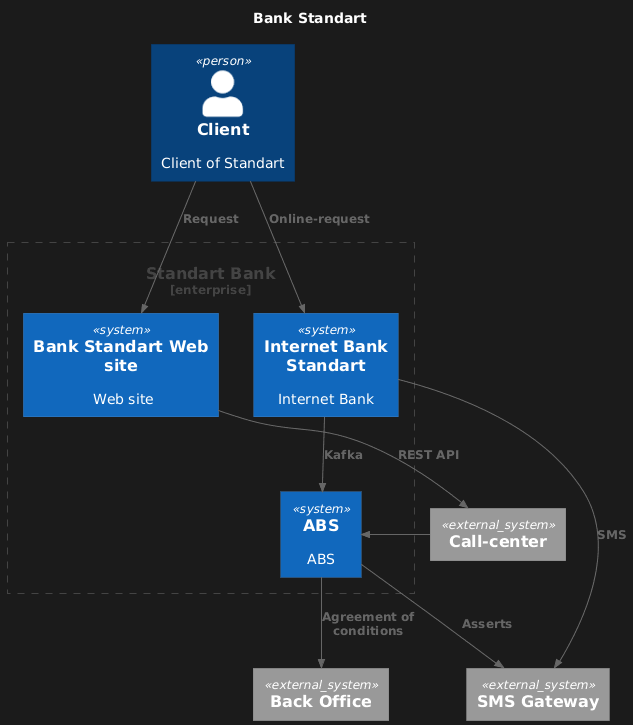
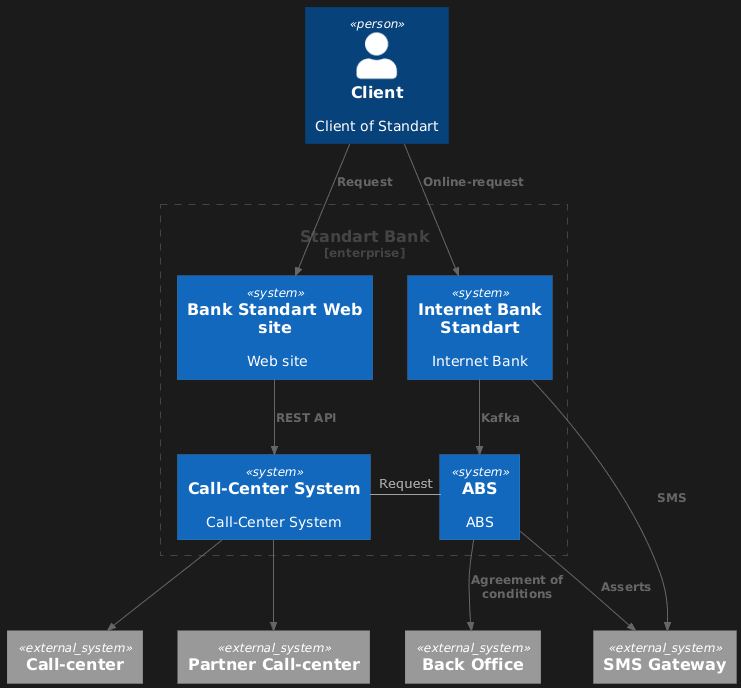
task 4 & task 5

Changed region(s): [[0.03, 0.0, 1.0, 1.0], [0.0, 0.8852, 0.2101, 1.0], [0.9305, 0.7326, 0.9905, 0.7631]]

diff --git a/Task4/README.md b/Task4/README.md
@@ -1,0 +1,72 @@
+## Задание 4. Передача ставок в кол-центр
+
+### <a name="_b7urdng99y53"></a>**Название задачи: Передача ставок в кол-центр** 
+### <a name="_hjk0fkfyohdk"></a>**Автор: kuznechek**
+### <a name="_uanumrh8zrui"></a>**Дата: 30.10.2025**
+
+### <a name="_3bfxc9a45514"></a>**Функциональные требования**
+Опишите здесь верхнеуровневые Use Cases. Их нужно оформить в виде таблицы с пошаговым описанием:
+
+|  №  | Действующие лица или системы         | Use Case                                     | Описание                                                                                                  |
+|-----|--------------------------------------|----------------------------------------------|-----------------------------------------------------------------------------------------------------------|
+| UC0 | Клиент, менеджер кол-центра          | Консультация по депозитам в кол-центре       | Менеджер проводит консультацию по актуальным депозитным ставкам                                           |
+| UC1 | Кол-центр                            | Обновление актуальных ставок в системе       |                                                                                                           |
+| UC2 | Кол-центр, партнёрский кол-центр     | Работа с партнёрским колцентром              |                                                                                                           |
+| UC3 | Администратор кол-центра             | Администрирование ставок                     |                                                                                                           |
+
+### <a name="_u8xz25hbrgql"></a>**Нефункциональные требования**
+Опишите здесь нефункциональные требования и архитектурно значимые требования.
+
+|  № | **Требование**                                                                  |
+|----|---------------------------------------------------------------------------------|
+| R0 | Доступность 99.9                                                                |
+| R1 | Генерация файла для партнёрского кол-центра                                     |
+| R2 | Шифрование данных при передаче между системами                                  |
+| R3 | Разграничение доступа к данным между сотрудниками                               |
+| R4 | Текущая версия платформы интернет-банка несовместима с Kafka                    |
+| R5 | Поддержка существующего стека технологий                                        |
+
+### <a name="_qmphm5d6rvi3"></a>**Решение**
+Приведите диаграммы контекста и контейнеров в модели C4. Опишите там основные компоненты и интеграции всех элементов решения.
+
+**[Диаграмма контекста](https://github.com/kuznechek/architecture-pro-standart/blob/standart/Task3/context.puml)**
+
+![Диаграмма контекста](https://github.com/kuznechek/architecture-pro-standart/blob/standart/Task3/context.png)
+
+**[Диаграмма контейнеров](https://github.com/kuznechek/architecture-pro-standart/blob/standart/Task4/containers.puml)**
+
+![Диаграмма контейнеров](https://github.com/kuznechek/architecture-pro-standart/blob/standart/Task4/containers.png)
+
+Также опишите, какой логикой вы руководствовались в ходе принятия решений и выбора технологий. Не забывайте, что необходимо учесть все функциональные и нефункциональные требования.
+
+Ддя решения данных задач будет реализован ряд новых микросервисов на платформе .NET Core REST API, а также потребуется провести этап интеграции для организации поддержки новых фич.
+
+**Bank Rate Service**, управляющий актуальными ставками. Микросервис будет реализован на платформе .NET Core REST API.
+
+**Partner Service**, управляющий сообщениями с партнёрским колл-центром. Здесь будет реализована генерация файлов для партнёрского коллцентра и передача файлов.
+
+Согласна требованиям партнёра формат сгенерированного файла CSV/Excel. Алгоритм шифрования - AES-256.
+
+Также необходимо интегрировать Kafka для организации обмена сообщениями между микросервисами.
+
+### <a name="_bjrr7veeh80c"></a>**Альтернативы**
+Опишите здесь наиболее важные альтернативные решения.
+
+Одной из имеющихся альтернатив можно назвать расширение текущего монолита. Из плюсов здесь можно выделить возможность использовать имеющуюся инфраструктуру и общую аутинтефикацию. Однако такой вариант утяжелит архитектуру, усиливает связность компонентов, что скажется как на производительности, так и на сложности дальнейшей разработки.
+
+Также вариантом решения может быть реализация микросервиса на других языках программирования высокого уровня, но нужно быть уверенным в компетенции команды, так как ранее об экспертизе команды в этих направлениях информации не было.
+
+### Ограничения:
+0. Необходимо использовать совместимые с .NET технологии
+1. Дополнительные вычислительные затраты на шифрование файлов
+
+### Риски:
+0. Новые точки авторизации требуют дополнительной защиты
+1. Миграция Excel в новую систему
+
+
+### <a name="_bjrr7veeh80c"></a>**Road Map**
+
+![Road Map](https://github.com/kuznechek/architecture-pro-standart/blob/standart/Task4/RoadMap.png)
+
+**[Road Map](https://github.com/kuznechek/architecture-pro-standart/blob/standart/Task4/RoadMap.drawio)**

diff --git a/Task5/README.md b/Task5/README.md
@@ -1,0 +1,62 @@
+## Задание 5. Заявка на кредит онлайн
+
+### <a name="_b7urdng99y53"></a>**Название задачи: Заявка на кредит онлайн** 
+### <a name="_hjk0fkfyohdk"></a>**Автор: kuznechek**
+### <a name="_uanumrh8zrui"></a>**Дата: 31.10.2025**
+### <a name="_3bfxc9a45514"></a>**Функциональные требования**
+Опишите здесь верхнеуровневые Use Cases. Их нужно оформить в виде таблицы с пошаговым описанием:
+
+
+|  №  | Действующие лица или системы         | Use Case                                     | Описание                                                                                                  |
+|-----|--------------------------------------|----------------------------------------------|-----------------------------------------------------------------------------------------------------------|
+| UC0 | Клиент                               | Просмотр списка возможны кредитов на сайте   | Клиент заходит на сайт и видит список доступных кредитов                                                  |
+| UC1 | Клиент                               | Подача заявки на кредитов через сайт         | Клиент подает заявку на кредит                                                                            |
+| UC2 | Управление кредитованием             | Обработка заявки клиента                     | Сотрудник обрабатывает заявку, принимает решение                                                          |
+| UC3 | SMS Gateway                          | Информирование пользователя о статусе        | Статус по кредиту поступает клиенту через СМС                                                             |
+
+### <a name="_u8xz25hbrgql"></a>**Нефункциональные требования**
+Опишите здесь нефункциональные требования и архитектурно значимые требования.
+
+|  № | **Требование**                                                                                                                    |
+|----|-----------------------------------------------------------------------------------------------------------------------------------|
+| R0 | Доступность 99.9%, 24/7                                                                                                           |
+| R1 | Быстрый отклик                                                                                                                    |
+| R2 | Шифрование данных при передаче между системами                                                                                    |
+| R3 | Необходимо использовать брокер сообщений Kafka                                                                                    |
+| R4 | Поддержка существующего стека технологий                                                                                          |
+
+### <a name="_qmphm5d6rvi3"></a>**Решение**
+Приведите диаграммы контекста и контейнеров в модели C4. Опишите там основные компоненты и интеграции всех элементов решения.
+
+**[Диаграмма контекста](https://github.com/kuznechek/architecture-pro-standart/blob/standart/Task3/context.puml)**
+
+![Диаграмма контекста](https://github.com/kuznechek/architecture-pro-standart/blob/standart/Task3/context.png)
+
+**[Диаграмма контейнеров](https://github.com/kuznechek/architecture-pro-standart/blob/standart/Task5/containers.puml)**
+
+![Диаграмма контейнеров](https://github.com/kuznechek/architecture-pro-standart/blob/standart/Task5/containers.png)
+
+
+Также опишите, какой логикой вы руководствовались в ходе принятия решений и выбора технологий. Не забывайте, что необходимо учесть все функциональные и нефункциональные требования.
+
+Ддя решения данных задач будет реализован новый микросервис, управляющий заявками на кредит. Микросервис будет реализован на платформе .NET, так как C# отлично подходит для задач данного типа.
+К данному сервису можно будет подключить как Kafka, так и отдельную БД Postgres для хранения заявок.
+Будет использован SSL/TLS (SslStream), что бы обеспечить асимметричное шифрование для аутентификации.
+Также выбор стека позволит использовать ту же команду, что разрабатывала монолит.
+
+### <a name="_bjrr7veeh80c"></a>**Альтернативы**
+Опишите здесь наиболее важные альтернативные решения.
+
+Одной из имеющихся альтернатив можно назвать расширение текущего монолита. Из плюсов здесь можно выделить возможность использовать имеющуюся инфраструктуру и общую аутинтефикацию. Однако такой вариант утяжелит архитектуру, усиливает связность компонентов, что скажется как на производительности, так и на сложности дальнейшей разработки.
+
+Также вариантом решения может быть реализация микросервиса на других языках программирования высокого уровня, но нужно быть уверенным в компетенции команды, так как ранее об экспертизе команды в этих направлениях информации не было.
+
+### Ограничения:
+0. Необходимо использовать совместимые с .NET технологии
+1. Необходимы новые процессы тестирования для нового решения
+2. Новая нагрузка на АБС
+
+### Риски:
+0. В случае сбоев у провайдера все процессы, связанные с СМС-информированием ставятся на паузу
+1. Сложность синхронности данных (добавление ещё одной БД)
+3. Новая нагрузка на АБС

diff --git a/Task3/README.md b/Task3/README.md
@@ -9,7 +9,7 @@
 
 |  №  | Действующие лица или системы         | Use Case                                     | Описание                                                                                                  |
 |-----|--------------------------------------|----------------------------------------------|-----------------------------------------------------------------------------------------------------------|
-| UC0 | Клиент                               | Просмотр списка депозитов на сайте           | Новый клиент заходит на сайт и видит список доступных депозитов с актуальными ставками                    |
+| UC0 | Клиент                               | Просмотр списка депозитов на сайте           | Клиент заходит на сайт и видит список доступных депозитов с актуальными ставками                    |
 | UC1 | Клиент                               | Подача заявки на депозит через сайт          | Клиент авторизуется, созадёт заявку на депозит                                                            |
 | UC2 | Менеджер кол-центра                  | Обработка заявки клиента                     | Менеджер может предложить клиенту персональные условия                                                    |
 | UC3 | Клиент, сотрудник отделения          | Идентификация в отделении                    | Клиент приходит в отделение для личной проверки документов                                                |
